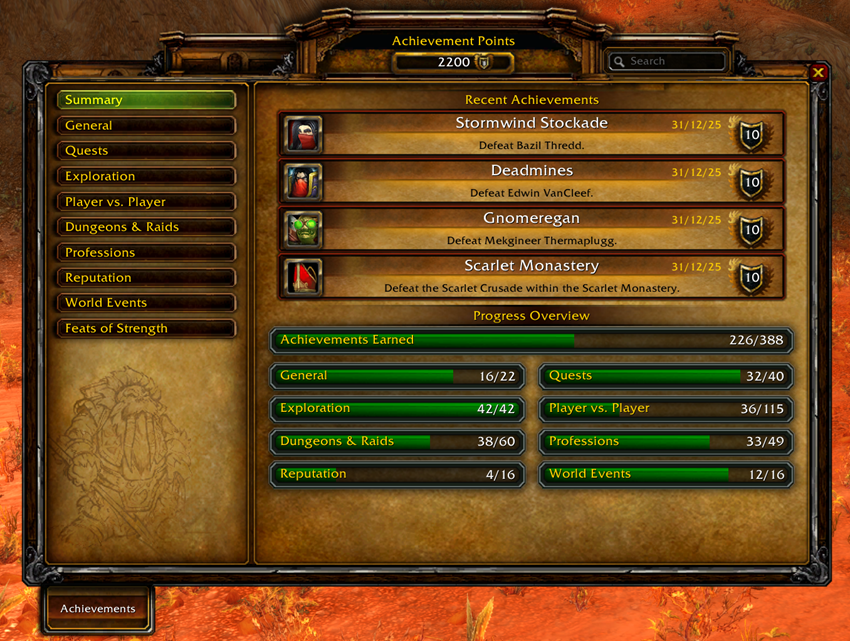
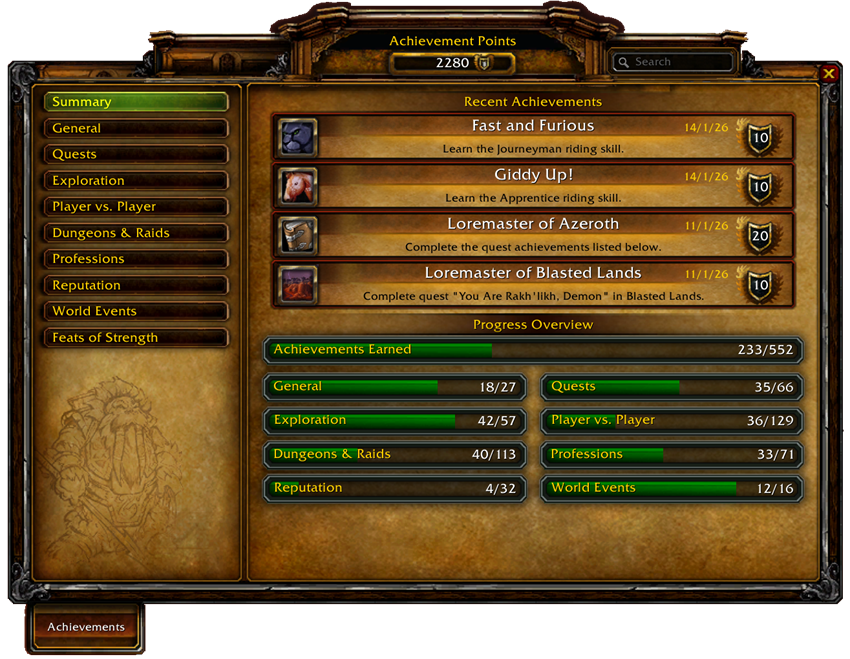
Updated main image and README.md

diff --git a/README.md b/README.md
@@ -1,17 +1,17 @@
 ![](images/summary.png)
 
-
 ### Introduction
 
-This addon brings you the original Achievement Interface from Blizzard into WoW Classic. It works on all Classic Servers (Era, Hardcore, Anniversary, Season of Discovery).
+This addon brings you the original Achievement Interface from Blizzard into WoW TBC & Classic
 
 It integrates perfectly with the Standard UI and uses the same graphics and sounds.
 
-Currently, nearly 385 Classic achievements (including Feats of Strength) are available. 
+Currently, 574 achievements (including Feats of Strength) are available in TBC. The WoW Classic version consists of 390 achievements. A full list can be found [here](/achievements/index.html).
 
-[Here](/achievements/index.html) is an overview which achievements are implemented.
+### Download
 
-
+- WoW TBC: Version 2.0
+- WoW Classic: Version 1.2.9. It works on all Classic Servers (Era, Hardcore, Anniversary, Season of Discovery)
 
 ### Supported Languages
 
@@ -22,9 +22,9 @@ For both languages, almost all achievements use original Blizzard texts and icon
 
 Using another WoW client language may cause some achievements not to work properly.
 
-
-
 ### Supported User Interfaces
+
+The addon works best with the Standard UI. If you have modified your interface, you can disable the micromenu button and instead use a button on your minimap.
 
 The addon was tested with the following UIs:
 
@@ -43,7 +43,6 @@ The addon was tested with the following UIs:
 
 - Due to the huge amount of content, I couldn't test everything. If you find any bugs, wrong localization, or have great ideas for new achievements, please write a comment
 - Other addons can prevent you from getting certain achievements: for example Fishing Buddy seems to interfere certain fishing achievements
-- The addon works best with the Standard UI. If you have modified your interface, you can disable the micromenu button and instead use a button on your minimap
 - Your achievements are NOT stored on Blizzard's servers. To backup them, go into:
 
     \<your WoW folder\>/WTF/Account/\<account name\>/\<server name\>/\<character name\>/SavedVariables/AnniversaryAchievements.lua
